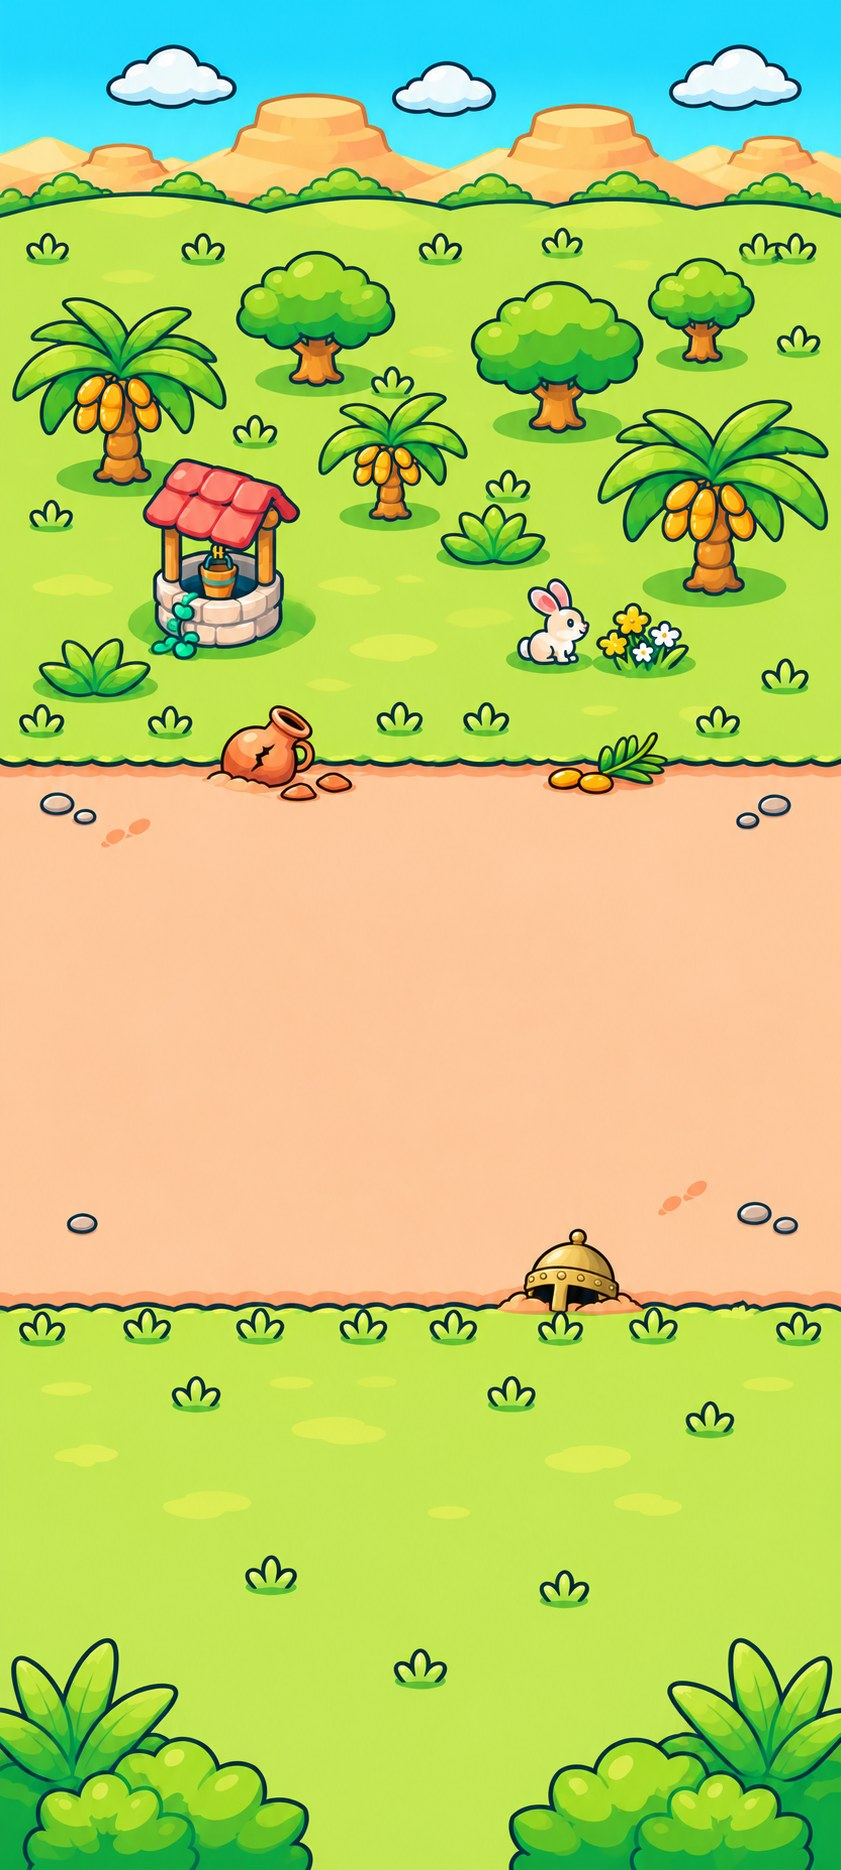
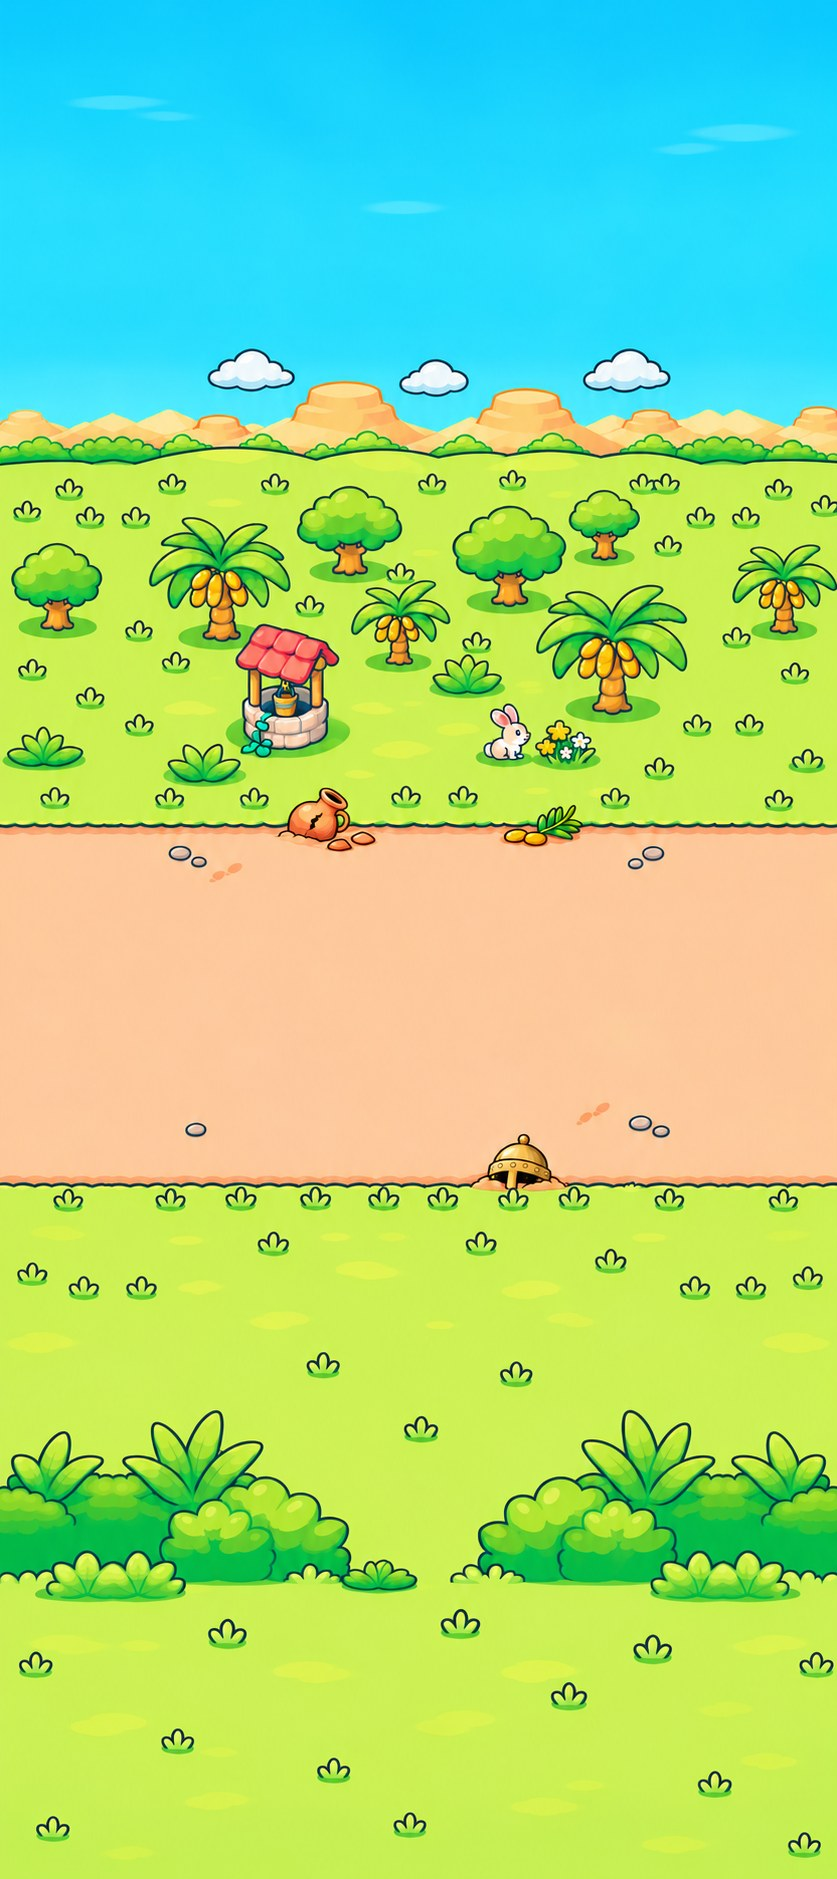
Fondos verticales ajustados; unidades y héroes más grandes en batalla
Claude-Session: https://claude.ai/code/session_01JNP7QCwsBCjLSMGndzwo2W

diff --git a/docs/index.html b/docs/index.html
@@ -967,7 +967,7 @@ body.nav .screen.abismo { padding-bottom: calc(var(--navh) + var(--sb) + 12px); 
 <script>
 (() => {
 'use strict';
-const W = 2800, VW = 960, HGT = 540, GROUND = 410, H = 120;
+const W = 2800, VW = 960, HGT = 540, GROUND = 410, H = 190;
 const OUT = 0x1e2235, STRING = 0xf6e3c6; let BLUE = 0x3b82f6, PURPLE = 0x8b5cf6;
 const ease = p => p < 0 ? 0 : p > 1 ? 1 : 1 - Math.pow(1 - p, 3);
 const easeIn = p => p < 0 ? 0 : p > 1 ? 1 : p * p * p;
@@ -4538,6 +4538,9 @@ const FIELD_L = CASTLE_FRONT + H * 0.5, FIELD_R = W - FIELD_L;
 // las unidades a distancia atacan a todo lo que esté a tres cuartos del terreno de juego (el fraile y Cole conservan su alcance de siempre; el centinela solo gana alcance con el francotirador: su minigun sigue usando close)
 const RANGO_LEJOS = 0.75 * (FIELD_R - FIELD_L);
 for (const k in CH) if (CH[k].ranged && k !== 'fraile' && k !== 'pistolero') CH[k].range = Math.max(CH[k].range, RANGO_LEJOS);
+// las unidades son más grandes que en el campo de pruebas (H = 150): andan en proporción; los héroes, aún más grandes
+for (const k in CH) if (CH[k].speed) CH[k].speed *= H / 120;
+for (const k of ['aldric', 'lyra', 'gull']) if (CH[k] && CH[k].k) CH[k].k *= 1.25;
 const CASTILLOS = ['piedra', 'roble', 'hielo', 'hierro'];
 let castleImg = {};
 let CASTLE_SKIN = { blue: null, purple: null };          // aspecto de cada bando (reino.js); sin él, el de piedra
@@ -4632,8 +4635,8 @@ function onDead(u) {            // en batalla las bajas no vuelven
 /* ---- carriles: el camino tiene cinco carriles invisibles; cada unidad sale en uno al azar (con un poco de holgura) y, cuando
    se acerca a su rival, se va desviando hacia el carril de él para pelear cara a cara ---- */
 let ROAD_HALF = H;
-const LANES = 5, LANE_DRIFT = 75;   // px por segundo de cambio de carril
-function laneRand() { const i = Math.floor(Math.random() * LANES), sp = ROAD_HALF * 0.42; return Math.round((i - (LANES - 1) / 2) / ((LANES - 1) / 2) * sp + rand(-6, 6)); }
+const LANES = 5, LANE_DRIFT = 75 * H / 120;   // px por segundo de cambio de carril
+function laneRand() { const i = Math.floor(Math.random() * LANES), sp = ROAD_HALF * 0.55; return Math.round((i - (LANES - 1) / 2) / ((LANES - 1) / 2) * sp + rand(-6, 6)); }
 function laneTick(dt) {
   const lim = ROAD_HALF * 0.6;
   for (const u of units) {
@@ -4789,7 +4792,7 @@ window.__setKills = (n, team = 'blue') => { B[team].kills = n; };
 window.__heroP = () => B.heroP && { state: B.heroP.state, skillT: B.heroP.skillT, kills: B.purple.kills };
 
 /* ---- escenario: escenas completas (fondo, camino y objetos en una sola imagen); t/b = franja de tierra (fracción del alto) ---- */
-const ESC = {"cerezos": {"t": 0.4198, "b": 0.6561, "w": 841, "h": 1870, "top": "#46b9fe", "bot": "#9ee84d"}, "otono": {"t": 0.4048, "b": 0.6759, "w": 841, "h": 1870, "top": "#16a3fe", "bot": "#c3dd3d"}, "oasis": {"t": 0.415, "b": 0.6914, "w": 841, "h": 1870, "top": "#1ed7fd", "bot": "#c4e655"}, "pinos": {"t": 0.4123, "b": 0.6706, "w": 841, "h": 1870, "top": "#42b5fe", "bot": "#9be06b"}};
+const ESC = {"cerezos": {"t": 0.447, "b": 0.6036, "w": 838, "h": 1877, "top": "#28acfe", "bot": "#a5ed5c"}, "pinos": {"t": 0.4417, "b": 0.6127, "w": 838, "h": 1877, "top": "#1fa7fd", "bot": "#a1ed75"}, "otono": {"t": 0.4369, "b": 0.6173, "w": 837, "h": 1879, "top": "#05a4fe", "bot": "#cbe741"}, "oasis": {"t": 0.4439, "b": 0.6259, "w": 837, "h": 1879, "top": "#0bc7fd", "bot": "#c7ef53"}};
 const ESC_NAME = { cerezos: 'Cerezos', otono: 'Otoño', oasis: 'Oasis', pinos: 'Pinos' };
 let escena = (() => { try { const v = localStorage.getItem('bg-escena'); return ESC[v] ? v : 'cerezos'; } catch (e) { return 'cerezos'; } })(), escObjs = [], clouds = [];
 function escPreload(L) {

diff --git a/prototipos/batalla/batalla.js b/prototipos/batalla/batalla.js
@@ -25,6 +25,9 @@ const FIELD_L = CASTLE_FRONT + H * 0.5, FIELD_R = W - FIELD_L;
 // las unidades a distancia atacan a todo lo que esté a tres cuartos del terreno de juego (el fraile y Cole conservan su alcance de siempre; el centinela solo gana alcance con el francotirador: su minigun sigue usando close)
 const RANGO_LEJOS = 0.75 * (FIELD_R - FIELD_L);
 for (const k in CH) if (CH[k].ranged && k !== 'fraile' && k !== 'pistolero') CH[k].range = Math.max(CH[k].range, RANGO_LEJOS);
+// las unidades son más grandes que en el campo de pruebas (H = 150): andan en proporción; los héroes, aún más grandes
+for (const k in CH) if (CH[k].speed) CH[k].speed *= H / 120;
+for (const k of ['aldric', 'lyra', 'gull']) if (CH[k] && CH[k].k) CH[k].k *= 1.25;
 const CASTILLOS = ['piedra', 'roble', 'hielo', 'hierro'];
 let castleImg = {};
 let CASTLE_SKIN = { blue: null, purple: null };          // aspecto de cada bando (reino.js); sin él, el de piedra
@@ -119,8 +122,8 @@ function onDead(u) {            // en batalla las bajas no vuelven
 /* ---- carriles: el camino tiene cinco carriles invisibles; cada unidad sale en uno al azar (con un poco de holgura) y, cuando
    se acerca a su rival, se va desviando hacia el carril de él para pelear cara a cara ---- */
 let ROAD_HALF = H;
-const LANES = 5, LANE_DRIFT = 75;   // px por segundo de cambio de carril
-function laneRand() { const i = Math.floor(Math.random() * LANES), sp = ROAD_HALF * 0.42; return Math.round((i - (LANES - 1) / 2) / ((LANES - 1) / 2) * sp + rand(-6, 6)); }
+const LANES = 5, LANE_DRIFT = 75 * H / 120;   // px por segundo de cambio de carril
+function laneRand() { const i = Math.floor(Math.random() * LANES), sp = ROAD_HALF * 0.55; return Math.round((i - (LANES - 1) / 2) / ((LANES - 1) / 2) * sp + rand(-6, 6)); }
 function laneTick(dt) {
   const lim = ROAD_HALF * 0.6;
   for (const u of units) {

diff --git a/prototipos/batalla/construir.py b/prototipos/batalla/construir.py
@@ -18,6 +18,7 @@ def rep(a, b, n=1):
     assert core.count(a) == n, (core.count(a), a[:70]); core = core.replace(a, b)
 # campo 1,5 veces más largo; el lienzo sigue siendo de 960
 rep("const W = 960, HGT = 540", "const W = 2800, VW = 960, HGT = 540")
+rep("GROUND = 410, H = 120;", "GROUND = 410, H = 190;")   # en batalla, unidades más grandes (los tamaños y alcances van en H; las velocidades se escalan en batalla.js)
 # en batalla las unidades se reparten más a lo ancho del camino
 rep("Math.round(rand(-18, 16))", "laneRand()")   # cinco carriles a lo ancho del camino (batalla.js)
 # la velocidad de ataque depende de hechizos, bestias y habilidades de rango (atkK en reino.js)
